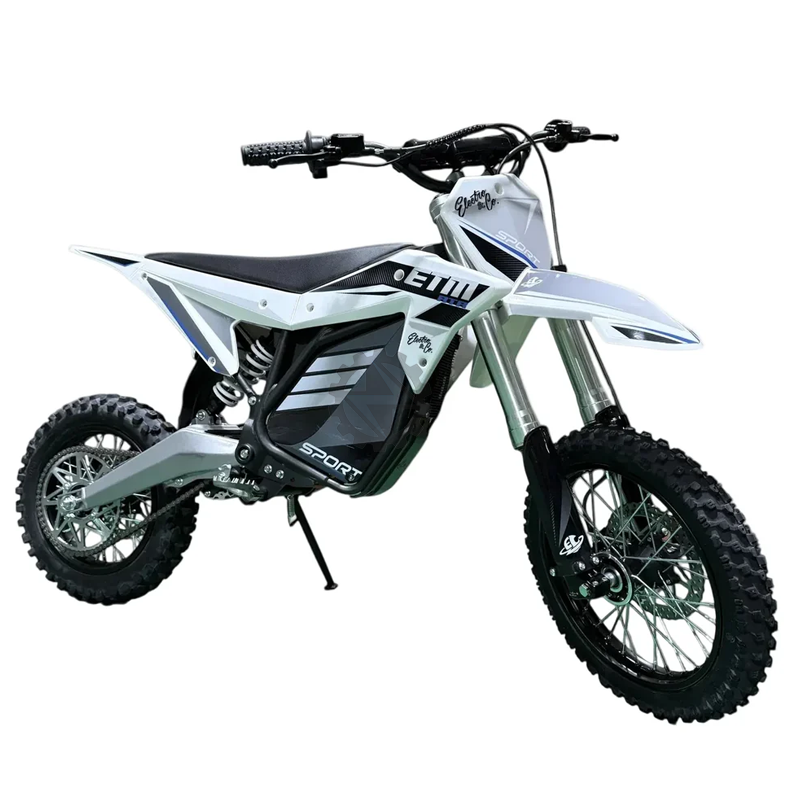
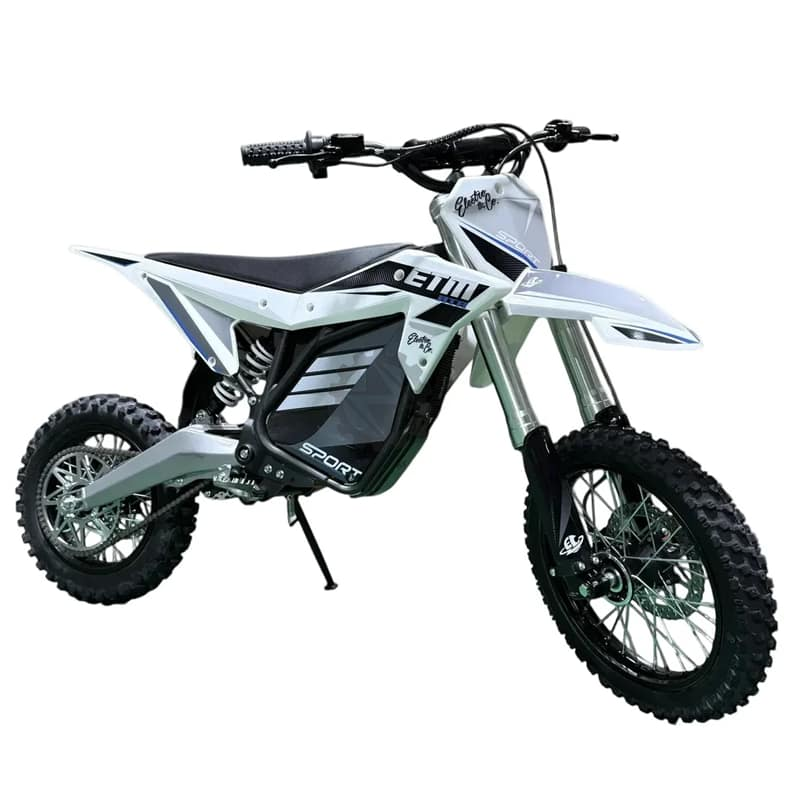
perf: load backdrop eagerly (LCP) and recompress oversized product JPGs

Changed region(s): [[0.625, 0.3125, 0.6562, 0.3438]]

diff --git a/app/layout.tsx b/app/layout.tsx
@@ -78,7 +78,7 @@ export default function RootLayout({ children }: { children: React.ReactNode }) 
             alt="Electric dirt bike Australia — off-road trail riding background"
             width={1920}
             height={1080}
-            loading="lazy"
+            loading="eager"
             decoding="async"
             className="w-full h-full object-cover object-center opacity-[0.15] sm:opacity-[0.18] scale-105 transition-opacity"
           />
